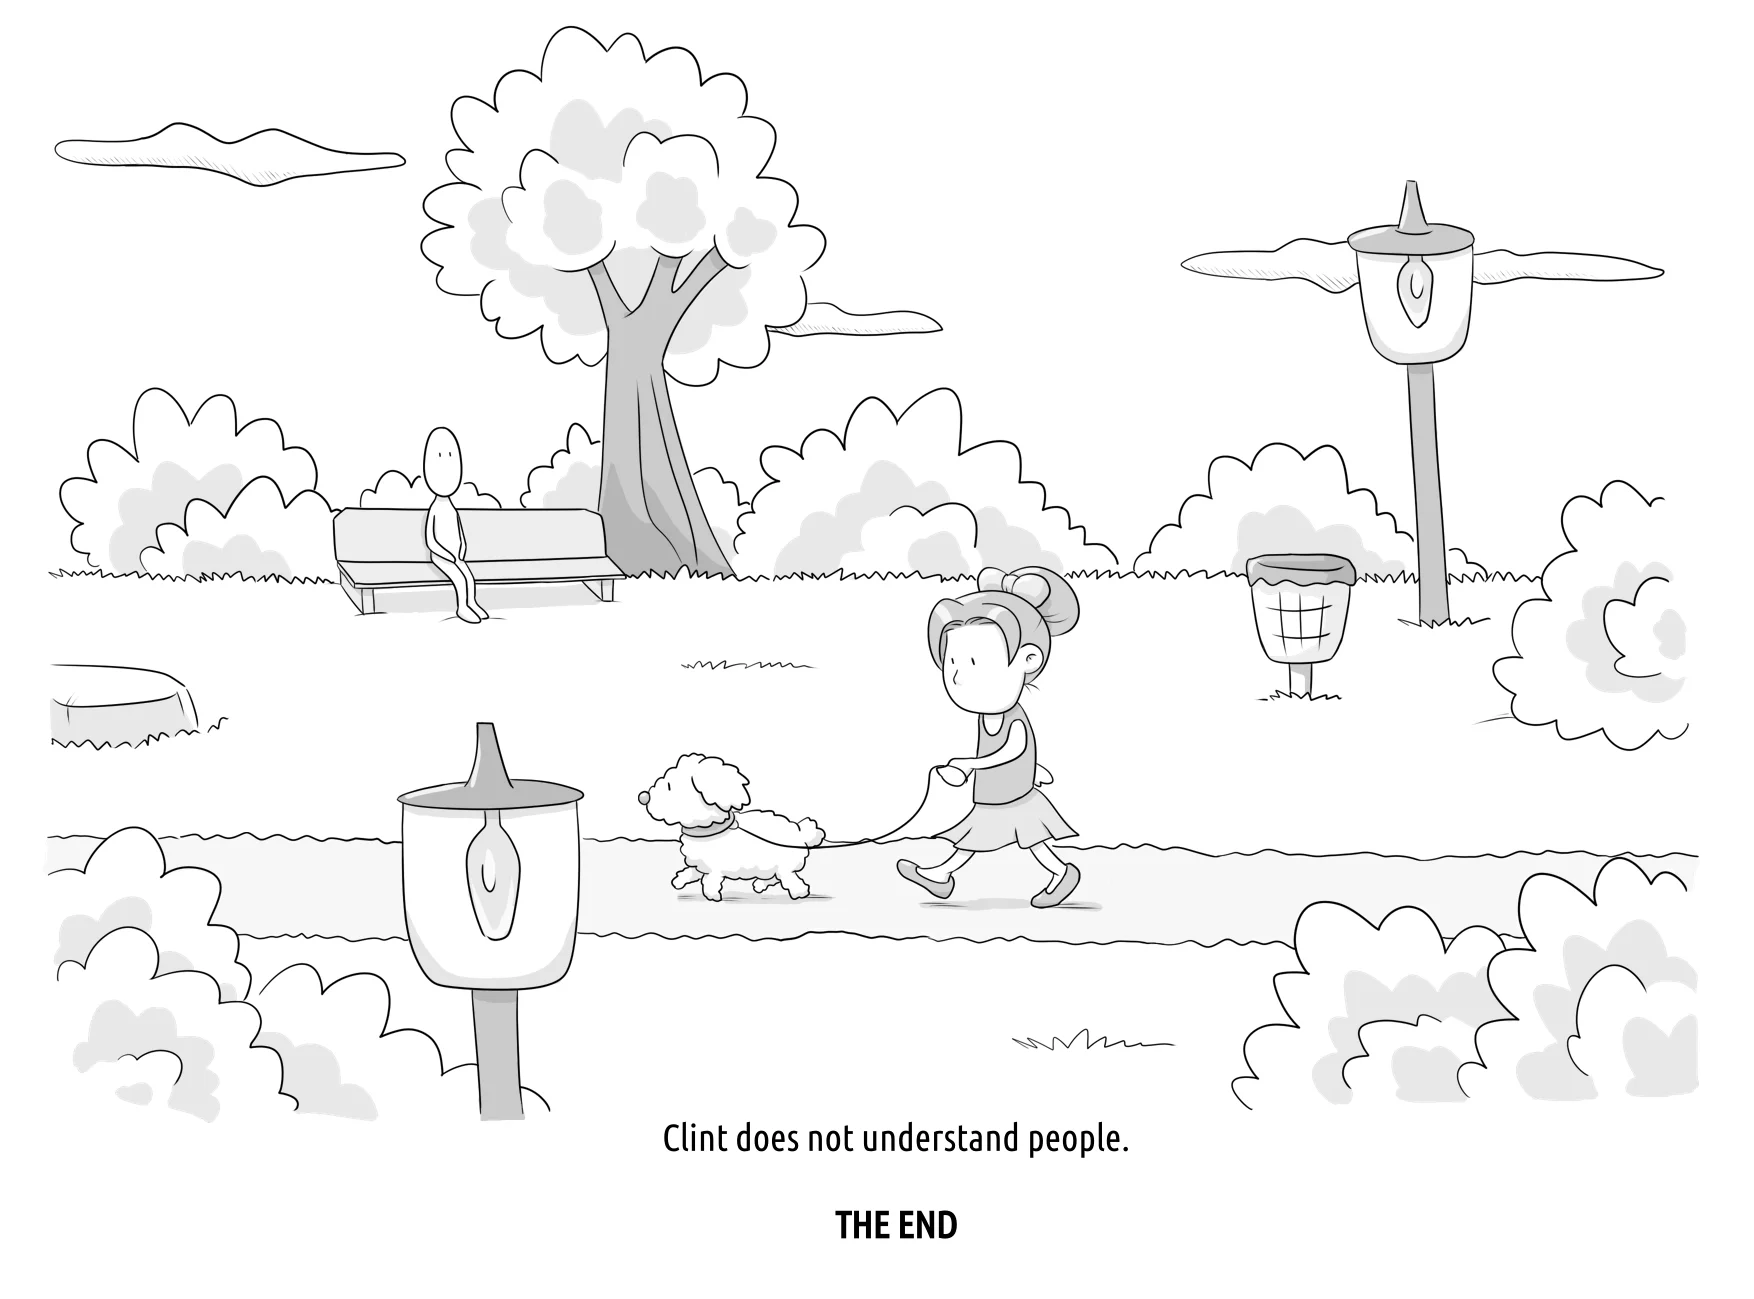
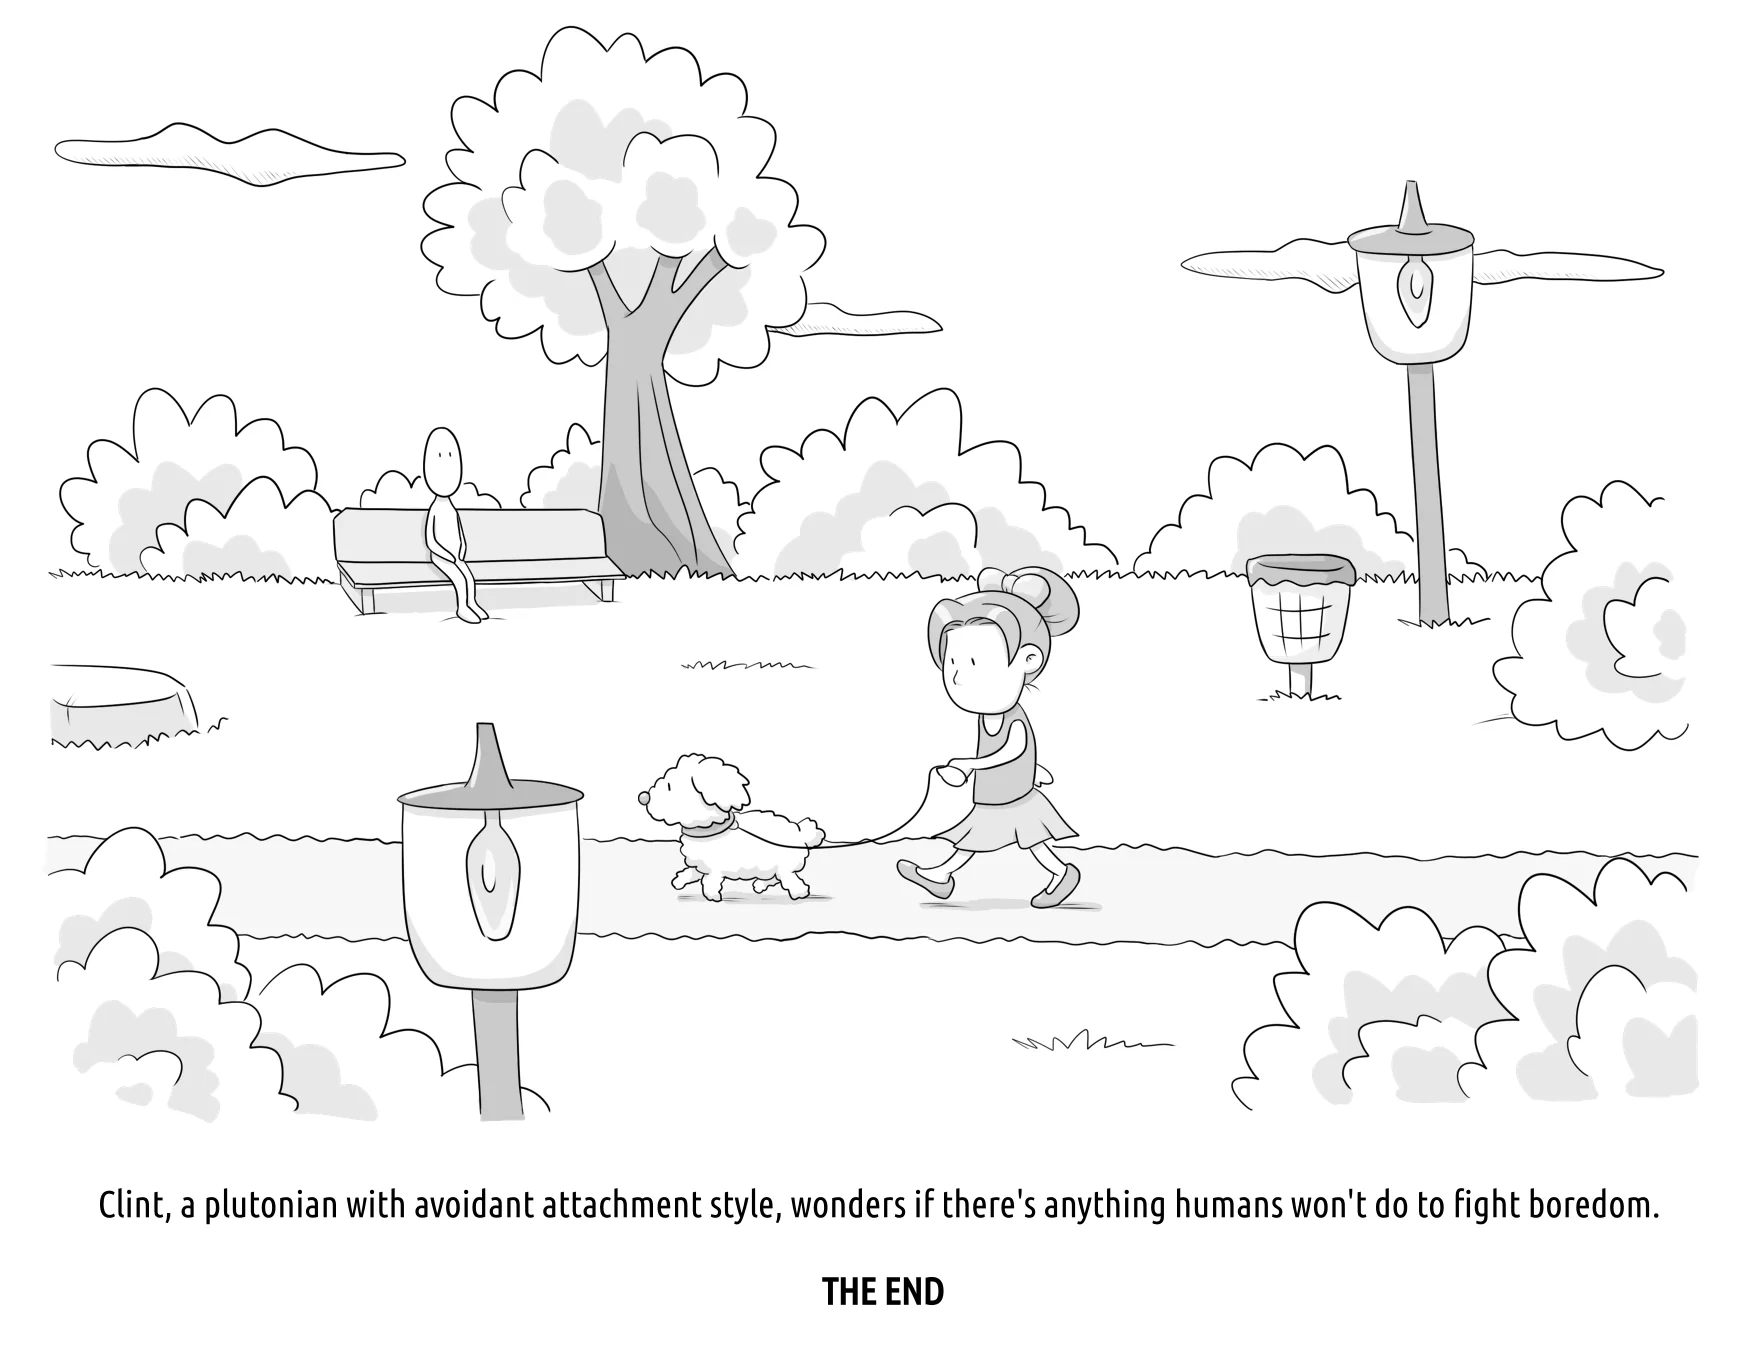
update clint 2

diff --git a/content/en/gallery/2023/clint-2/index.md b/content/en/gallery/2023/clint-2/index.md
@@ -1,9 +1,9 @@
 ---
-title: Hell is others
+title: Busywork
 description: Clint Adventures
 date: '2023-10-21T18:00:00.000+02:00'
 categories: [ Dibuixos ]
 image: cover.webp
 ---
 
-![](clint-2.webp "Clint does not understand")
+![](clint-2.webp "Clint boredom")
